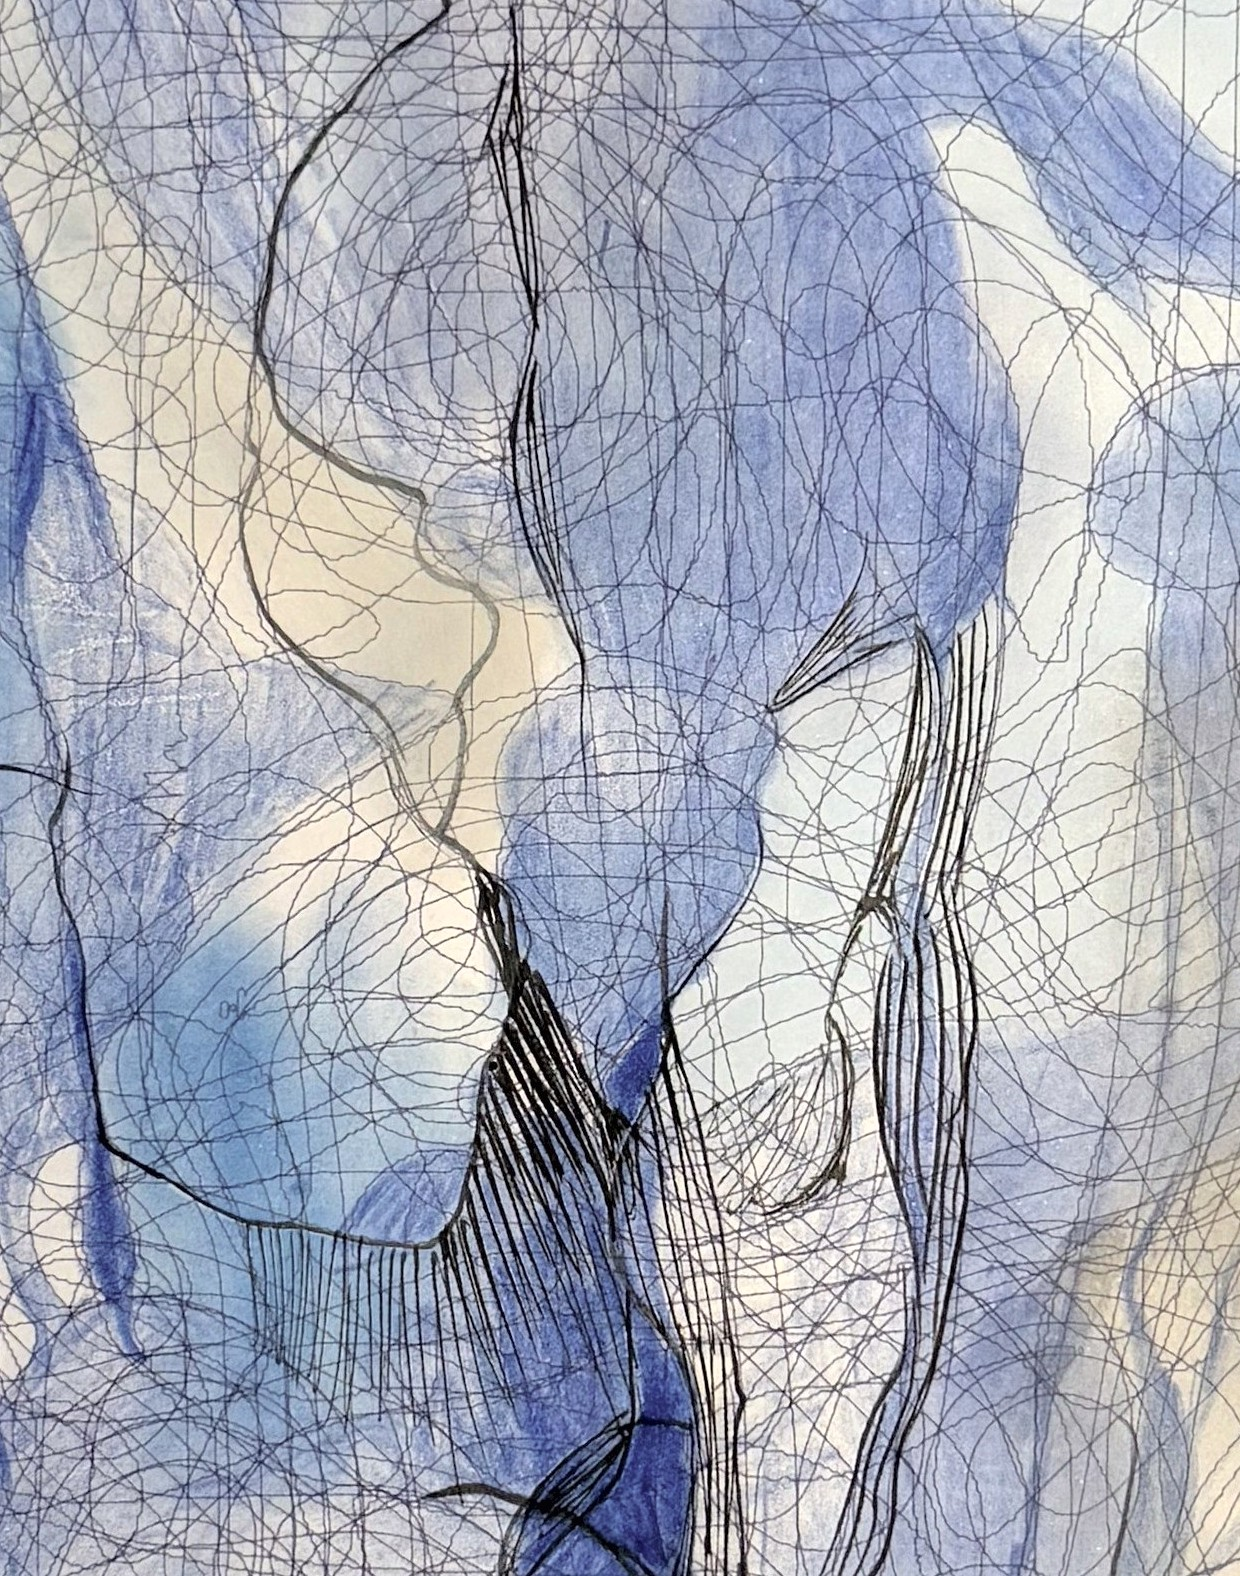
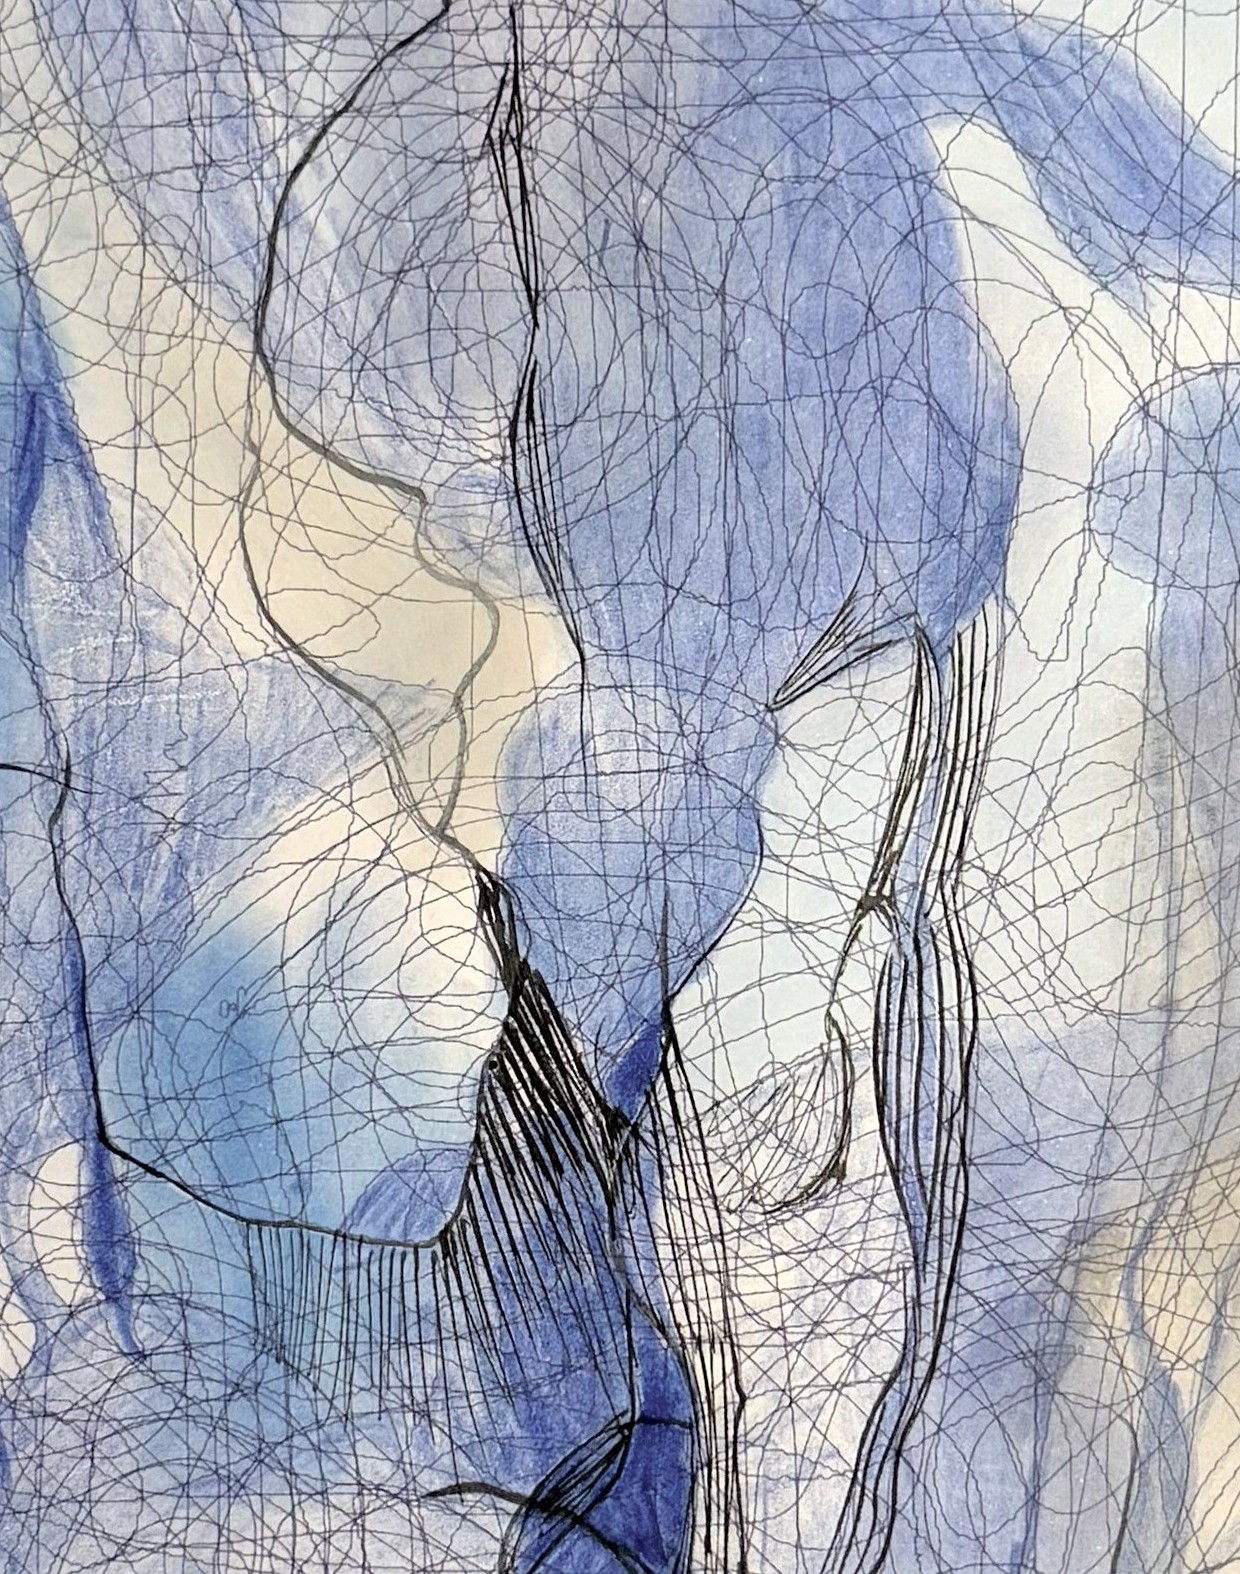
Every Thinking Blue running head links to the cover; tap the foot to show navigation on touch screens; final sketch's details kept inside the drawing
Claude-Session: https://claude.ai/code/session_0167unpjXrMJ2oQas8FScJRE

diff --git a/works/index.html b/works/index.html
@@ -103,7 +103,7 @@ const H=[
   facts:[["Date","24 October 2026"],["Drawn on","a printed line plate from <i>Diagramming Blue</i>"],["Also","handwritten text across the top"],["Medium","powder pastel, pen and ink, markers, pencil crayons, printed image"],["Source","scan, 2878 × 4032"]]},
  {k:"h2",fit:"contain",on:"<i>How many blues are there?</i>",w:3521,h:5258,d:[[.5,.42],[.824,.5],[.25,.83]],
   facts:[["Date","7 November 2026"],["Drawn on","the print <i>How many blues are there?</i>"],["Medium","powder pastel, pen and ink, markers, pencil crayons, printed image"],["Source","phone photograph, straightened, 3521 × 5258"]]},
- {k:"h3",on:"a line plate, in watercolour",w:3821,h:5596,d:[[.5,.5],[.56,.859],[.82,.141]],
+ {k:"h3",on:"a line plate, in watercolour",w:3821,h:5596,d:[[.5,.5],[.56,.794],[.793,.234]],
   facts:[["Date","7 November 2026"],["Drawn on","a printed line plate from <i>Diagramming Blue</i>"],["Medium","powder pastel, pen and ink, markers, pencil crayons, printed image"],["Source","phone photograph, straightened, 3821 × 5596"]]}
 ];
 const close=$("close"),det=$("det");let cur=0,open=-1;
@@ -149,8 +149,8 @@ show(0);
   body.navshow .peek{opacity:0;pointer-events:none}
 }
 @media (max-width:760px){.peek{display:none}}
-.head a.home{color:inherit;text-decoration:none;pointer-events:auto}
-.head a.home:hover{text-decoration:underline;text-underline-offset:.25em}
+.head a.home,.rhead a.home,.vhead a.home{color:inherit;text-decoration:none;pointer-events:auto;position:relative;z-index:5}
+.head a.home:hover,.rhead a.home:hover,.vhead a.home:hover{text-decoration:underline;text-underline-offset:.25em}
 </style>
 <button class="peek" type="button" aria-label="Show navigation">contents ▴</button>
 <script>
@@ -158,13 +158,15 @@ show(0);
   const show=()=>{clearTimeout(tm);t.classList.add("show");document.body.classList.add("navshow")};
   const hide=()=>{t.classList.remove("show");document.body.classList.remove("navshow")};
   const later=ms=>{clearTimeout(tm);tm=setTimeout(()=>{if(!t.matches(":hover")&&!t.contains(document.activeElement))hide()},ms)};
+  addEventListener("pointerdown",e=>{if(e.pointerType!=="mouse"&&innerHeight-e.clientY<90){show();later(5000)}});
   addEventListener("pointermove",e=>{if(e.pointerType!=="mouse")return;if(innerHeight-e.clientY<64)show();else if(t.classList.contains("show")&&!t.contains(e.target))later(500)});
   addEventListener("wheel",e=>{if(e.target.closest&&e.target.closest("canvas,.mat,.text,#stepslot"))return;if(e.deltaY>8){show();later(2600)}else if(e.deltaY<-8)hide()},{passive:true});
   pk.onclick=()=>{t.classList.contains("show")?hide():(show(),later(4000))};
   addEventListener("keydown",e=>{if(e.key==="Escape")hide()});
   show();later(2200);
   /* the running head "Thinking Blue" goes back to the cover */
-  if(!document.querySelector(".books"))document.querySelectorAll(".head span").forEach(s=>{if(s.textContent.trim()==="Thinking Blue"){const a=document.createElement("a");a.href="../";a.className="home";a.textContent="Thinking Blue";s.replaceChildren(a)}});
+  {const home=document.querySelector(".books")?"./":"../";
+   document.querySelectorAll(".head span,.rhead span,.vhead span").forEach(s=>{if(s.textContent.trim()==="Thinking Blue"){const a=document.createElement("a");a.href=home;a.className="home";a.textContent="Thinking Blue";s.replaceChildren(a)}})}
 })();
 </script>
 </body>

diff --git a/index.html b/index.html
@@ -112,8 +112,8 @@ document.querySelectorAll(".turn button").forEach(b=>b.onclick=()=>{document.get
   body.navshow .peek{opacity:0;pointer-events:none}
 }
 @media (max-width:760px){.peek{display:none}}
-.head a.home{color:inherit;text-decoration:none;pointer-events:auto}
-.head a.home:hover{text-decoration:underline;text-underline-offset:.25em}
+.head a.home,.rhead a.home,.vhead a.home{color:inherit;text-decoration:none;pointer-events:auto;position:relative;z-index:5}
+.head a.home:hover,.rhead a.home:hover,.vhead a.home:hover{text-decoration:underline;text-underline-offset:.25em}
 </style>
 <button class="peek" type="button" aria-label="Show navigation">contents ▴</button>
 <script>
@@ -121,13 +121,15 @@ document.querySelectorAll(".turn button").forEach(b=>b.onclick=()=>{document.get
   const show=()=>{clearTimeout(tm);t.classList.add("show");document.body.classList.add("navshow")};
   const hide=()=>{t.classList.remove("show");document.body.classList.remove("navshow")};
   const later=ms=>{clearTimeout(tm);tm=setTimeout(()=>{if(!t.matches(":hover")&&!t.contains(document.activeElement))hide()},ms)};
+  addEventListener("pointerdown",e=>{if(e.pointerType!=="mouse"&&innerHeight-e.clientY<90){show();later(5000)}});
   addEventListener("pointermove",e=>{if(e.pointerType!=="mouse")return;if(innerHeight-e.clientY<64)show();else if(t.classList.contains("show")&&!t.contains(e.target))later(500)});
   addEventListener("wheel",e=>{if(e.target.closest&&e.target.closest("canvas,.mat,.text,#stepslot"))return;if(e.deltaY>8){show();later(2600)}else if(e.deltaY<-8)hide()},{passive:true});
   pk.onclick=()=>{t.classList.contains("show")?hide():(show(),later(4000))};
   addEventListener("keydown",e=>{if(e.key==="Escape")hide()});
   show();later(2200);
   /* the running head "Thinking Blue" goes back to the cover */
-  if(!document.querySelector(".books"))document.querySelectorAll(".head span").forEach(s=>{if(s.textContent.trim()==="Thinking Blue"){const a=document.createElement("a");a.href="../";a.className="home";a.textContent="Thinking Blue";s.replaceChildren(a)}});
+  {const home=document.querySelector(".books")?"./":"../";
+   document.querySelectorAll(".head span,.rhead span,.vhead span").forEach(s=>{if(s.textContent.trim()==="Thinking Blue"){const a=document.createElement("a");a.href=home;a.className="home";a.textContent="Thinking Blue";s.replaceChildren(a)}})}
 })();
 </script>
 </body>

diff --git a/names/index.html b/names/index.html
@@ -323,8 +323,8 @@ Promise.all([fetch("names-data.json").then(r=>r.json()),document.fonts?document.
   body.navshow .peek{opacity:0;pointer-events:none}
 }
 @media (max-width:760px){.peek{display:none}}
-.head a.home{color:inherit;text-decoration:none;pointer-events:auto}
-.head a.home:hover{text-decoration:underline;text-underline-offset:.25em}
+.head a.home,.rhead a.home,.vhead a.home{color:inherit;text-decoration:none;pointer-events:auto;position:relative;z-index:5}
+.head a.home:hover,.rhead a.home:hover,.vhead a.home:hover{text-decoration:underline;text-underline-offset:.25em}
 </style>
 <button class="peek" type="button" aria-label="Show navigation">contents ▴</button>
 <script>
@@ -332,12 +332,14 @@ Promise.all([fetch("names-data.json").then(r=>r.json()),document.fonts?document.
   const show=()=>{clearTimeout(tm);t.classList.add("show");document.body.classList.add("navshow")};
   const hide=()=>{t.classList.remove("show");document.body.classList.remove("navshow")};
   const later=ms=>{clearTimeout(tm);tm=setTimeout(()=>{if(!t.matches(":hover")&&!t.contains(document.activeElement))hide()},ms)};
+  addEventListener("pointerdown",e=>{if(e.pointerType!=="mouse"&&innerHeight-e.clientY<90){show();later(5000)}});
   addEventListener("pointermove",e=>{if(e.pointerType!=="mouse")return;if(innerHeight-e.clientY<64)show();else if(t.classList.contains("show")&&!t.contains(e.target))later(500)});
   addEventListener("wheel",e=>{if(e.target.closest&&e.target.closest("canvas,.mat,.text,#stepslot"))return;if(e.deltaY>8){show();later(2600)}else if(e.deltaY<-8)hide()},{passive:true});
   pk.onclick=()=>{t.classList.contains("show")?hide():(show(),later(4000))};
   addEventListener("keydown",e=>{if(e.key==="Escape")hide()});
   show();later(2200);
   /* the running head "Thinking Blue" goes back to the cover */
-  if(!document.querySelector(".books"))document.querySelectorAll(".head span").forEach(s=>{if(s.textContent.trim()==="Thinking Blue"){const a=document.createElement("a");a.href="../";a.className="home";a.textContent="Thinking Blue";s.replaceChildren(a)}});
+  {const home=document.querySelector(".books")?"./":"../";
+   document.querySelectorAll(".head span,.rhead span,.vhead span").forEach(s=>{if(s.textContent.trim()==="Thinking Blue"){const a=document.createElement("a");a.href=home;a.className="home";a.textContent="Thinking Blue";s.replaceChildren(a)}})}
 })();
 </script>

diff --git a/gathering/index.html b/gathering/index.html
@@ -904,8 +904,8 @@ body.studio .more{margin-top:1.4cqi}
   body.navshow .peek{opacity:0;pointer-events:none}
 }
 @media (max-width:760px){.peek{display:none}}
-.head a.home{color:inherit;text-decoration:none;pointer-events:auto}
-.head a.home:hover{text-decoration:underline;text-underline-offset:.25em}
+.head a.home,.rhead a.home,.vhead a.home{color:inherit;text-decoration:none;pointer-events:auto;position:relative;z-index:5}
+.head a.home:hover,.rhead a.home:hover,.vhead a.home:hover{text-decoration:underline;text-underline-offset:.25em}
 </style>
 <button class="peek" type="button" aria-label="Show navigation">contents ▴</button>
 <script>
@@ -913,12 +913,14 @@ body.studio .more{margin-top:1.4cqi}
   const show=()=>{clearTimeout(tm);t.classList.add("show");document.body.classList.add("navshow")};
   const hide=()=>{t.classList.remove("show");document.body.classList.remove("navshow")};
   const later=ms=>{clearTimeout(tm);tm=setTimeout(()=>{if(!t.matches(":hover")&&!t.contains(document.activeElement))hide()},ms)};
+  addEventListener("pointerdown",e=>{if(e.pointerType!=="mouse"&&innerHeight-e.clientY<90){show();later(5000)}});
   addEventListener("pointermove",e=>{if(e.pointerType!=="mouse")return;if(innerHeight-e.clientY<64)show();else if(t.classList.contains("show")&&!t.contains(e.target))later(500)});
   addEventListener("wheel",e=>{if(e.target.closest&&e.target.closest("canvas,.mat,.text,#stepslot"))return;if(e.deltaY>8){show();later(2600)}else if(e.deltaY<-8)hide()},{passive:true});
   pk.onclick=()=>{t.classList.contains("show")?hide():(show(),later(4000))};
   addEventListener("keydown",e=>{if(e.key==="Escape")hide()});
   show();later(2200);
   /* the running head "Thinking Blue" goes back to the cover */
-  if(!document.querySelector(".books"))document.querySelectorAll(".head span").forEach(s=>{if(s.textContent.trim()==="Thinking Blue"){const a=document.createElement("a");a.href="../";a.className="home";a.textContent="Thinking Blue";s.replaceChildren(a)}});
+  {const home=document.querySelector(".books")?"./":"../";
+   document.querySelectorAll(".head span,.rhead span,.vhead span").forEach(s=>{if(s.textContent.trim()==="Thinking Blue"){const a=document.createElement("a");a.href=home;a.className="home";a.textContent="Thinking Blue";s.replaceChildren(a)}})}
 })();
 </script>

diff --git a/plates/index.html b/plates/index.html
@@ -431,8 +431,8 @@ const h=location.hash.slice(1);
   body.navshow .peek{opacity:0;pointer-events:none}
 }
 @media (max-width:760px){.peek{display:none}}
-.head a.home{color:inherit;text-decoration:none;pointer-events:auto}
-.head a.home:hover{text-decoration:underline;text-underline-offset:.25em}
+.head a.home,.rhead a.home,.vhead a.home{color:inherit;text-decoration:none;pointer-events:auto;position:relative;z-index:5}
+.head a.home:hover,.rhead a.home:hover,.vhead a.home:hover{text-decoration:underline;text-underline-offset:.25em}
 </style>
 <button class="peek" type="button" aria-label="Show navigation">contents ▴</button>
 <script>
@@ -440,12 +440,14 @@ const h=location.hash.slice(1);
   const show=()=>{clearTimeout(tm);t.classList.add("show");document.body.classList.add("navshow")};
   const hide=()=>{t.classList.remove("show");document.body.classList.remove("navshow")};
   const later=ms=>{clearTimeout(tm);tm=setTimeout(()=>{if(!t.matches(":hover")&&!t.contains(document.activeElement))hide()},ms)};
+  addEventListener("pointerdown",e=>{if(e.pointerType!=="mouse"&&innerHeight-e.clientY<90){show();later(5000)}});
   addEventListener("pointermove",e=>{if(e.pointerType!=="mouse")return;if(innerHeight-e.clientY<64)show();else if(t.classList.contains("show")&&!t.contains(e.target))later(500)});
   addEventListener("wheel",e=>{if(e.target.closest&&e.target.closest("canvas,.mat,.text,#stepslot"))return;if(e.deltaY>8){show();later(2600)}else if(e.deltaY<-8)hide()},{passive:true});
   pk.onclick=()=>{t.classList.contains("show")?hide():(show(),later(4000))};
   addEventListener("keydown",e=>{if(e.key==="Escape")hide()});
   show();later(2200);
   /* the running head "Thinking Blue" goes back to the cover */
-  if(!document.querySelector(".books"))document.querySelectorAll(".head span").forEach(s=>{if(s.textContent.trim()==="Thinking Blue"){const a=document.createElement("a");a.href="../";a.className="home";a.textContent="Thinking Blue";s.replaceChildren(a)}});
+  {const home=document.querySelector(".books")?"./":"../";
+   document.querySelectorAll(".head span,.rhead span,.vhead span").forEach(s=>{if(s.textContent.trim()==="Thinking Blue"){const a=document.createElement("a");a.href=home;a.className="home";a.textContent="Thinking Blue";s.replaceChildren(a)}})}
 })();
 </script>
